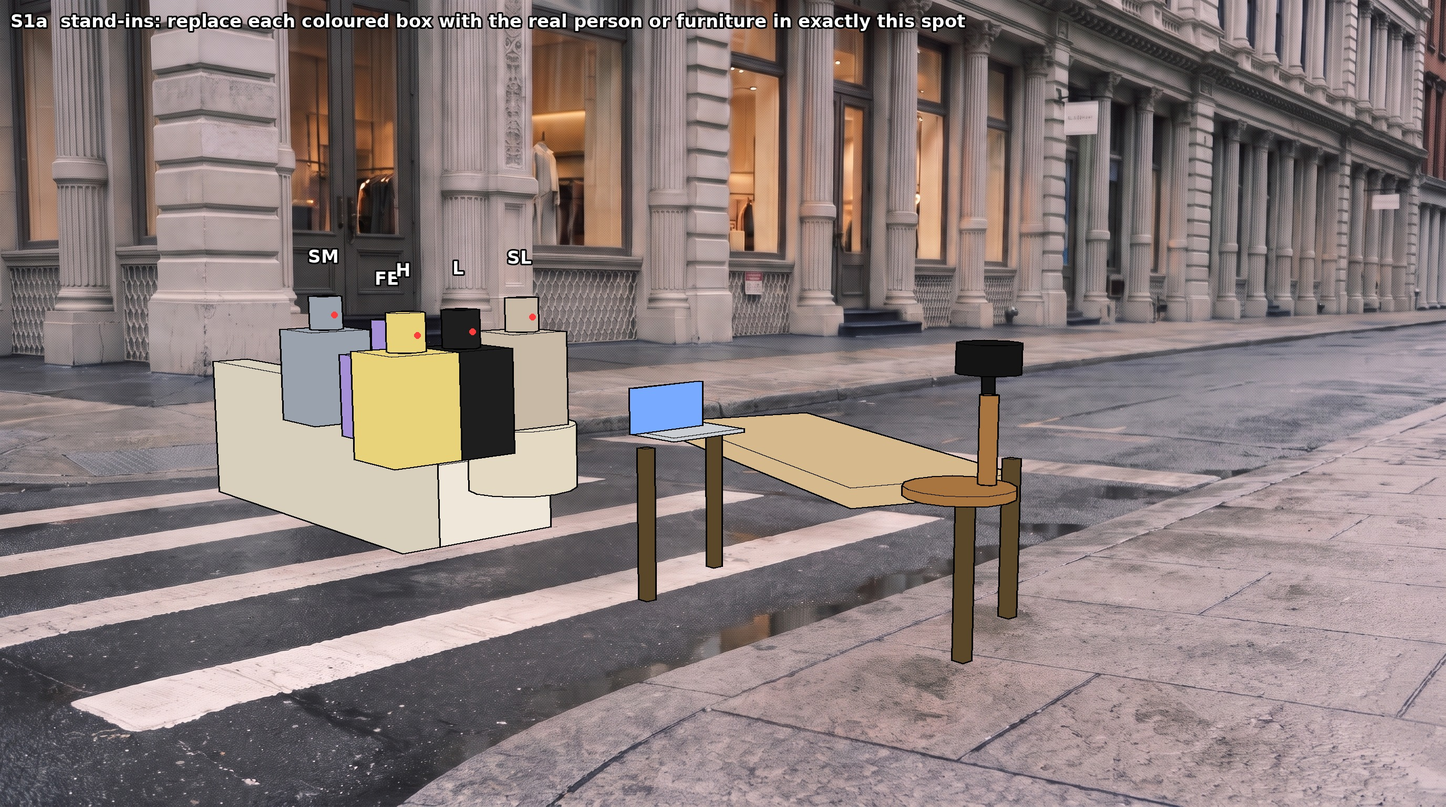
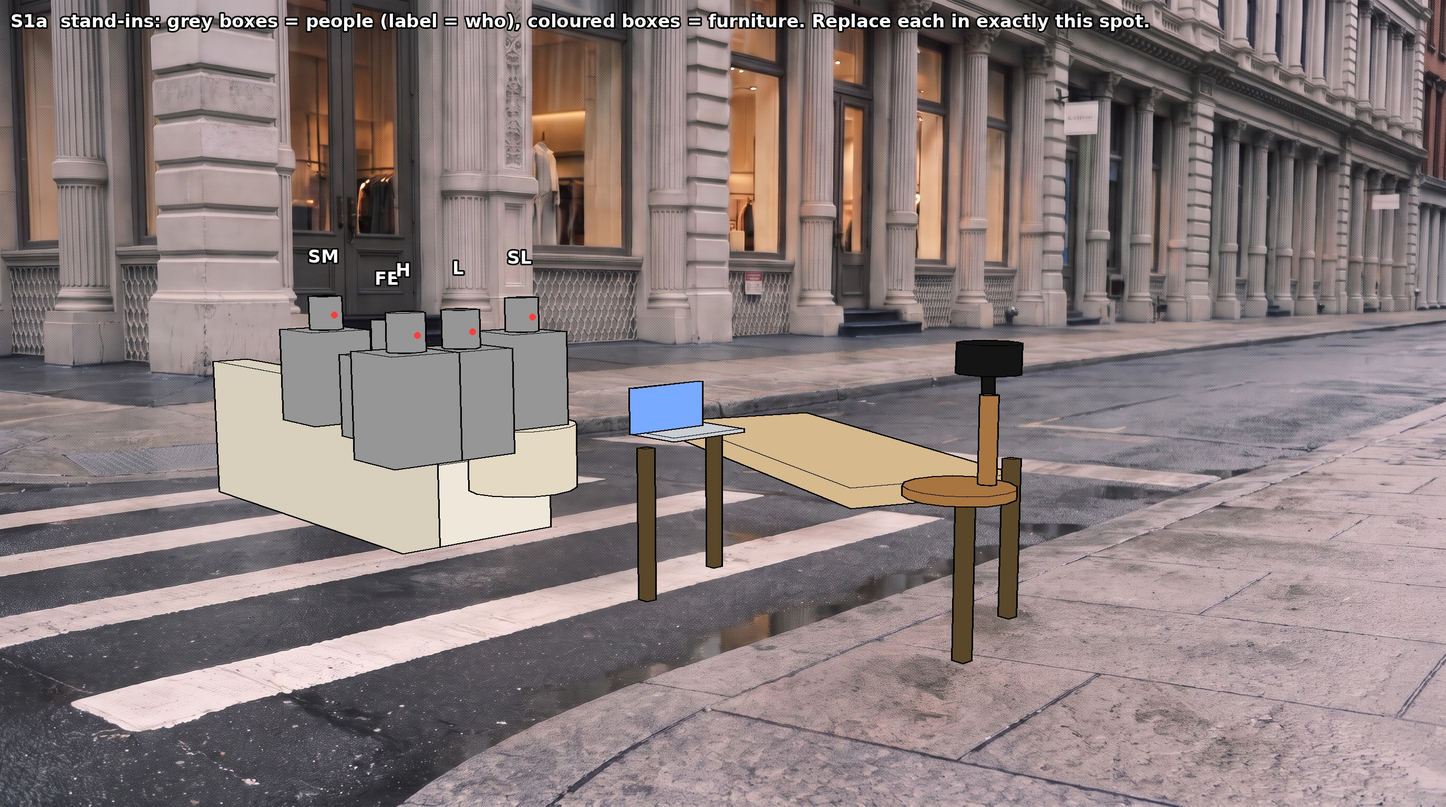
previz: neutral grey people stand-ins; v9 test frames
Claude-Session: https://claude.ai/code/session_01UrVJCYAfMmjv3QQnRf3jKV

Changed region(s): [[0.2188, 0.3438, 0.4062, 0.5938], [0.125, 0.0, 0.8125, 0.0625]]

diff --git a/prompts/previz.py b/prompts/previz.py
@@ -15,7 +15,7 @@ def mk(cx, cy, cz, yawdeg, pitch):
 
 PLATE_CAM = mk(-2.981, -8.875, 1.796, 47.2, -7.75)   # fitted to scene_empty.jpg + Chia's couch/desk boxes
 
-COL = {'L': (30, 30, 30), 'H': (232, 210, 122), 'FE': (165, 143, 214), 'SM': (154, 163, 173), 'SL': (199, 185, 166)}
+COL = {'L': (150, 150, 150), 'H': (150, 150, 150), 'FE': (150, 150, 150), 'SM': (150, 150, 150), 'SL': (150, 150, 150)}  # neutral grey: the colour must not leak into the outfit
 FCOL = {'sofa': (239, 232, 218), 'table': (228, 217, 195), 'desk': (214, 185, 140), 'laptop': (201, 205, 210),
         'screen': (120, 170, 255), 'lamp': (20, 20, 20), 'chair': (168, 116, 63)}
 
@@ -96,4 +96,4 @@ def render(people, cam=None, out=None, label=''):
 if __name__ == '__main__':
     beats = {b[0]: b for b in sd.SHOTS}
     for sid in ['S1a', 'S1b', 'S2a', 'S3a']:
-        render(beats[sid][3], out=f'/home/claude/treg-ugc-assets/blocking/previz/{sid}.jpg', label=f'{sid}  stand-ins: replace each coloured box with the real person or furniture in exactly this spot')
+        render(beats[sid][3], out=f'/home/claude/treg-ugc-assets/blocking/previz/{sid}.jpg', label=f'{sid}  stand-ins: grey boxes = people (label = who), coloured boxes = furniture. Replace each in exactly this spot.')
